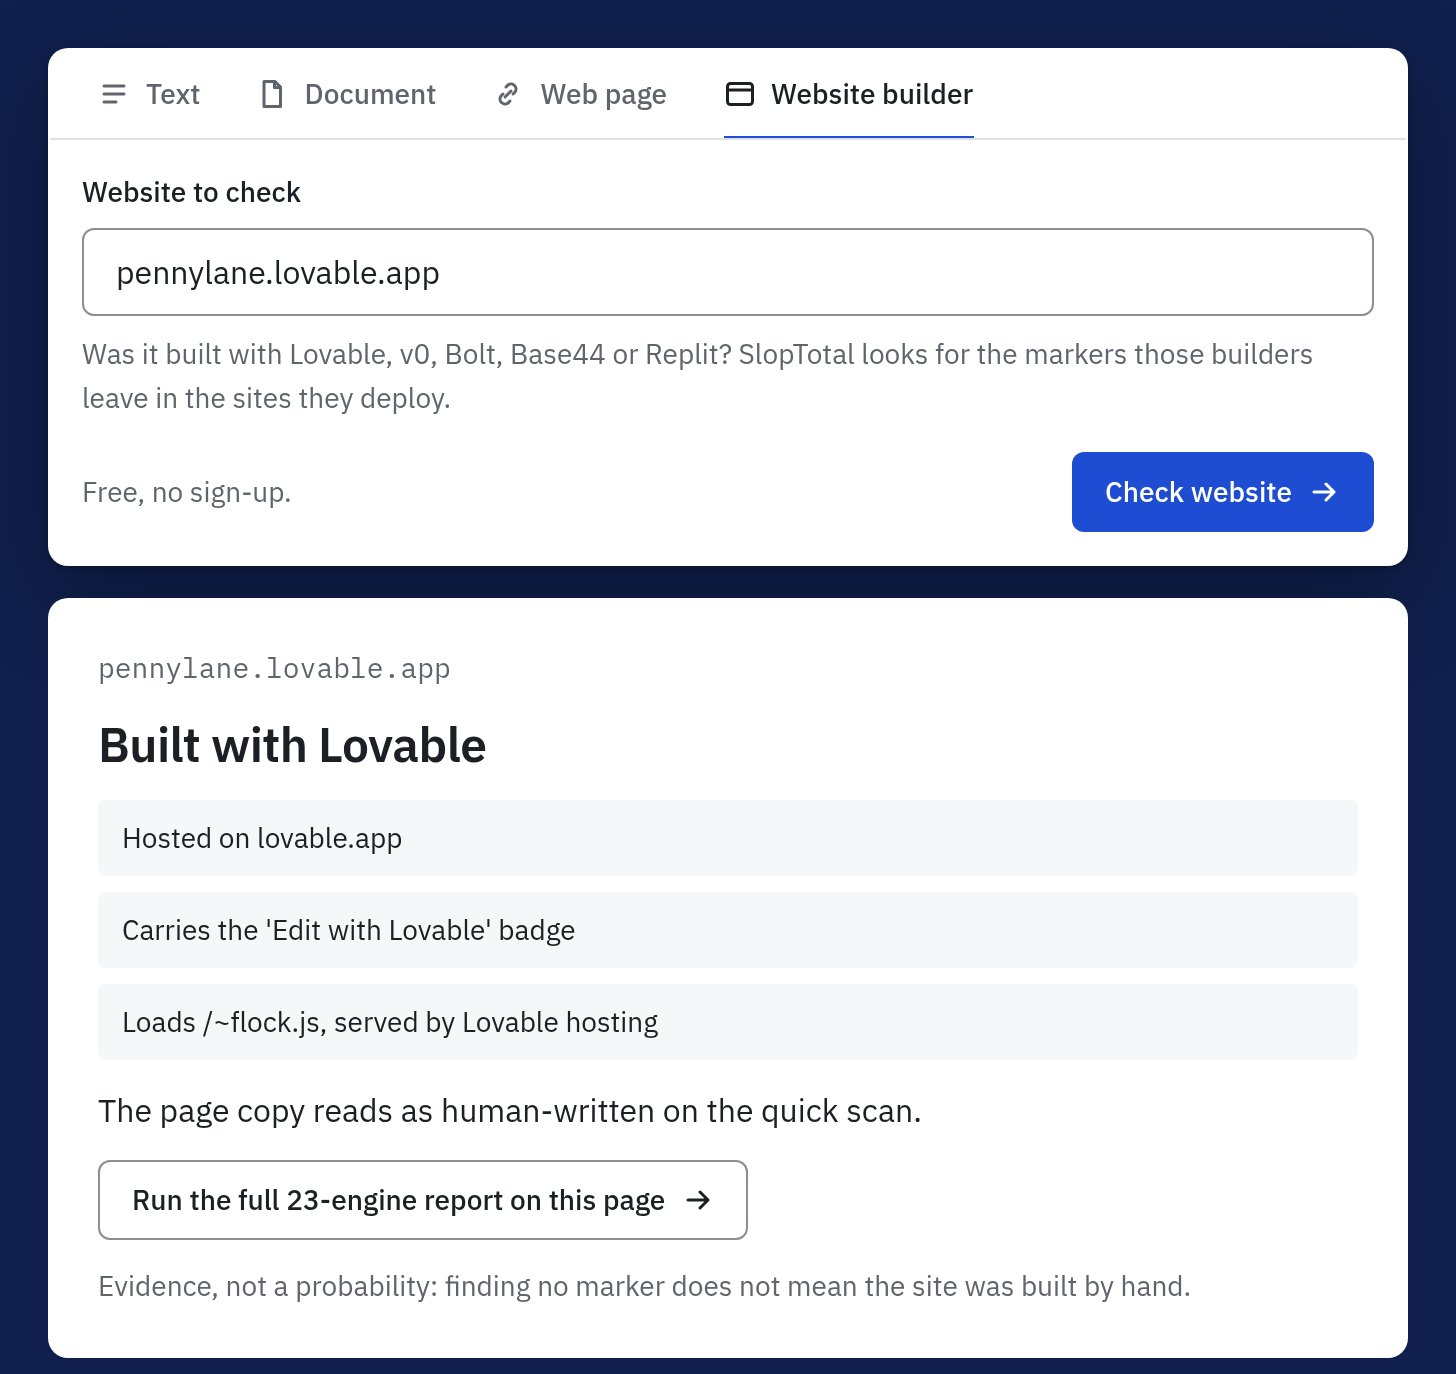
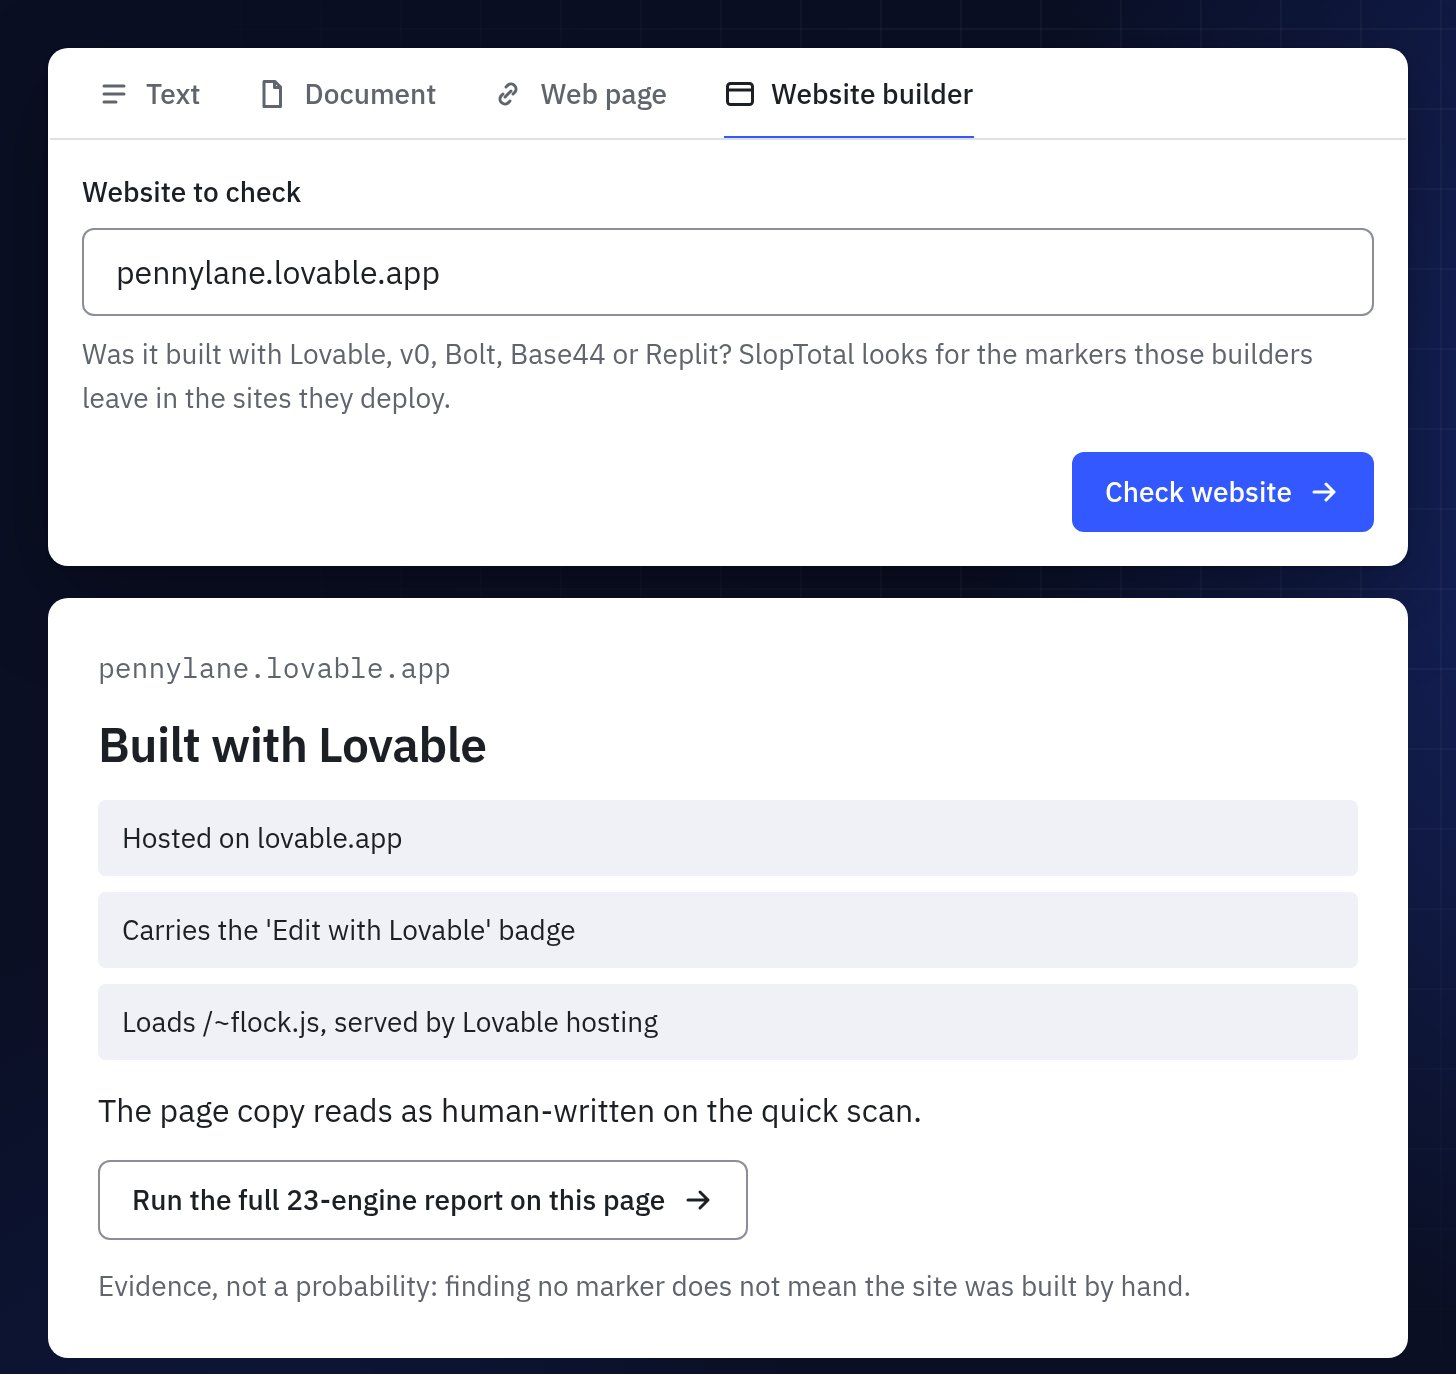
README media in the final sloptotal.com palette (#102)

Changed region(s): [[0.0, 0.0, 1.0, 1.0]]

diff --git a/docs/assets/social.html b/docs/assets/social.html
@@ -1,7 +1,7 @@
 <!doctype html><html><head><meta charset="utf-8">
 <link rel="stylesheet" href="https://fonts.googleapis.com/css2?family=IBM+Plex+Mono:wght@400;500&family=IBM+Plex+Sans:wght@400;500;600&display=swap">
 <style>
-body{margin:0;width:1280px;height:640px;background:#101f4d;color:#fff;font-family:"IBM Plex Sans",sans-serif;overflow:hidden;position:relative}
+body{margin:0;width:1280px;height:640px;background:#0a0f24;color:#fff;font-family:"IBM Plex Sans",sans-serif;overflow:hidden;position:relative}
 .l{position:absolute;left:72px;top:64px;bottom:64px;width:600px;display:flex;flex-direction:column}
 .logo{display:flex;align-items:center;gap:14px;font-size:34px;letter-spacing:-.025em}
 .logo b{font-weight:600}
@@ -12,18 +12,19 @@ p{margin:0;font-size:26px;line-height:38px;color:#c1c5d1}
 canvas{position:absolute;right:20px;top:35px;width:560px;height:560px}
 </style></head><body>
 <div class="l">
-  <div class="logo"><svg width="46" height="46" viewBox="0 0 32 32"><rect width="32" height="32" rx="7" fill="#1f4ed8"/><path d="M5.5 22.5A10.5 10.5 0 0 1 16 12" fill="none" stroke="#fff" stroke-opacity=".55" stroke-width="4.6" stroke-linecap="round"/><path d="M16 12A10.5 10.5 0 0 1 26.5 22.5" fill="none" stroke="#ff6b6b" stroke-width="4.6" stroke-linecap="round"/><path d="M15 24L22 15" stroke="#fff" stroke-width="3.2" stroke-linecap="round"/></svg><span><b>Slop</b>Total</span></div>
+  <div class="logo"><svg width="46" height="46" viewBox="0 0 32 32"><rect width="32" height="32" rx="7" fill="#3358ff"/><path d="M5.5 22.5A10.5 10.5 0 0 1 16 12" fill="none" stroke="#fff" stroke-opacity=".55" stroke-width="4.6" stroke-linecap="round"/><path d="M16 12A10.5 10.5 0 0 1 26.5 22.5" fill="none" stroke="#ff6b6b" stroke-width="4.6" stroke-linecap="round"/><path d="M15 24L22 15" stroke="#fff" stroke-width="3.2" stroke-linecap="round"/></svg><span><b>Slop</b>Total</span></div>
   <h1>Is this text written by AI?</h1>
   <p>Free, open-source AI detector. 23 engines, one calibrated score, every vote shown.</p>
   <div class="foot"><span><b>0.942</b> AUC</span><span><b>MIT</b> licence</span><span>sloptotal.com</span></div>
 </div>
 <canvas id="c" width="1120" height="1120"></canvas>
 <script>
[1 lines of base64/hex data omitted]
-const C=['#30a46c','#8fbf4a','#e8b024','#f76b15','#e5484d'];
[1 lines of base64/hex data omitted]
+const C=['#3dd68c','#a9d66a','#ffca16','#ff8b3e','#ff6b6b'];
 const ctx=document.getElementById('c').getContext('2d');const w=1120,h=1120,scale=w*0.36;
 const yaw=0.9,pitch=0.42,cy=Math.cos(yaw),sy=Math.sin(yaw),cp=Math.cos(pitch),sp=Math.sin(pitch);
-for(let b=0;b<5;b++){ctx.fillStyle=C[b];for(let i=0;i<raw.length/4;i++){if(raw[i*4+3]!==b)continue;
-const x=raw[i*4]/127,y=raw[i*4+1]/127,z=raw[i*4+2]/127;const x1=x*cy-z*sy,z1=x*sy+z*cy,y1=y*cp-z1*sp,z2=y*sp+z1*cp,ps=2.6/(2.6+z2);
+const band=s=>s<=30?0:s<=45?1:s<=55?2:s<=80?3:4;
+for(let b=0;b<5;b++){ctx.fillStyle=C[b];for(let i=0;i<raw.length/5;i++){if(band(raw[i*5+3])!==b)continue;
+const x=(raw[i*5]-128)/127,y=(raw[i*5+1]-128)/127,z=(raw[i*5+2]-128)/127;const x1=x*cy-z*sy,z1=x*sy+z*cy,y1=y*cp-z1*sp,z2=y*sp+z1*cp,ps=2.6/(2.6+z2);
 ctx.globalAlpha=0.55+0.4*(1-(z2+1)/2);ctx.beginPath();ctx.arc(w/2+x1*scale*ps,h/2+y1*scale*ps,3*ps,0,6.283);ctx.fill();}}
 </script></body></html>
